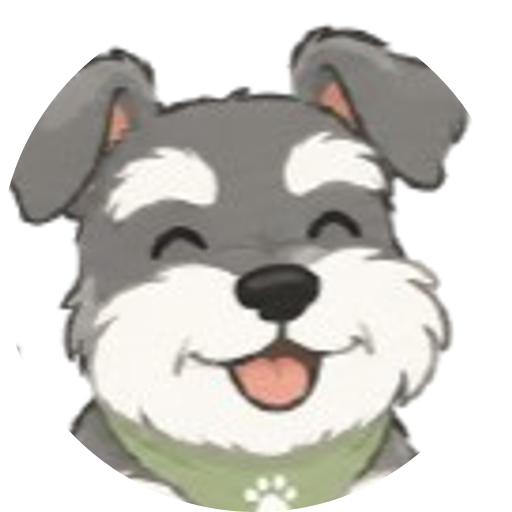
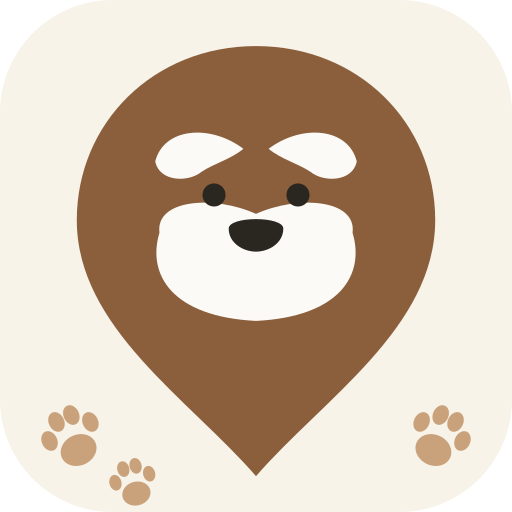
앱·사이트 아이콘을 글자 없는 핀 로고로 교체, 앱 0.1.3

diff --git a/src/app/manifest.ts b/src/app/manifest.ts
@@ -17,7 +17,8 @@ export default function manifest(): MetadataRoute.Manifest {
     lang: "ko",
     icons: [
       { src: "/icon.png", sizes: "512x512", type: "image/png", purpose: "any" },
-      { src: "/icon.png", sizes: "512x512", type: "image/png", purpose: "maskable" },
+      // maskable: 폰이 제 모양(동그라미 등)으로 잘라 쓰는 아이콘 — 그림을 가운데에 작게 두고 바탕을 끝까지 채운 파일을 따로 씁니다.
+      { src: "/icon-maskable.png", sizes: "512x512", type: "image/png", purpose: "maskable" },
       { src: "/apple-icon.png", sizes: "180x180", type: "image/png", purpose: "any" },
     ],
   };

diff --git a/README.md b/README.md
@@ -919,13 +919,14 @@
   + 알림 아이콘 제작 스크립트 : mobile/icon-drafts/make-notification-icons.cjs — 실루엣·컬러 아이콘과 앱용 5종 크기를 한 번에 생성
   + 앱 0.1.1 : 새 알림 아이콘을 담아 다시 빌드·서명(같은 열쇠라 기존 앱 위에 덮어 설치 가능)
   + 앱 0.1.2 : 알림창의 작은 아이콘을 로고의 갈색으로 표시(상단바 아이콘 색은 안드로이드가 정해 변경 불가)
+  + 앱·사이트 아이콘 교체 : 글자 없는 핀 로고(0번 시안)를 앱 아이콘·시작 화면·브라우저 탭 아이콘·홈 화면 추가 아이콘에 적용(make-app-icons.cjs), 앱 0.1.3
   + 아이콘 시안 모음 : 이름 없는 형태 + 글꼴 32가지를 한 장 이미지로 정리(mobile/icon-drafts)
 
 - 오늘 못한 일
   + 알림 아이콘 실기기 확인 : 새 앱을 설치해 상단바에 실루엣이 뜨는지는 직접 확인 필요
-  + 앱 아이콘(홈 화면) : 시안 선택 전이라 기존 슈나우저 얼굴 그대로
+  + 앱 아이콘 실기기 확인 : 새 앱을 설치해 홈 화면 아이콘이 바뀌는지는 직접 확인 필요
 
 - 내일 할 일
-  + 앱 아이콘 확정 : 추천받은 시안 번호로 앱·사이트 아이콘 교체
+  + 이름 넣은 로고 : 추천받은 글꼴 번호로 스토어 대표 이미지·로딩 화면용 로고 제작
   + 회원 레벨 : 방문 기록 표 → 마이페이지 레벨 표시 → 닉네임 배지 → 회원 관리 탭 순서로 연결
 <br>

diff --git a/mobile/README.md b/mobile/README.md
@@ -59,6 +59,12 @@ bash mobile/android/build-apk.sh
 `android/twa-manifest.json`의 `appVersionName`(예: `0.1.1`)과 `appVersionCode`(1씩 올림)를 바꾸고,
 `android/app/build.gradle`의 `versionCode`·`versionName`도 같은 값으로 맞춘 뒤 다시 빌드합니다.
 
+## 앱 아이콘
+
+글자 없는 핀 로고(갈색 핀 속 슈나우저와 발자국)를 씁니다. 그림을 바꾸려면 `mobile/icon-drafts/make-app-icons.cjs`의 도형을 고친 뒤
+`node mobile/icon-drafts/make-app-icons.cjs`를 실행하면 사이트 아이콘(브라우저 탭·홈 화면 추가)과 앱 아이콘·시작 화면 그림이 모든 크기로 다시 만들어집니다.
+그다음 버전을 올려 앱을 다시 빌드합니다.
+
 ## 알림 아이콘
 
 상단바에 뜨는 작은 알림 아이콘은 안드로이드 규칙상 **한 가지 색 실루엣**만 됩니다(투명하지 않은 부분이 전부 흰색으로 칠해짐).
